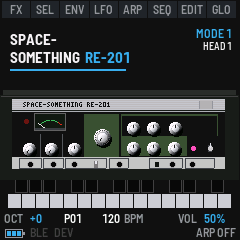
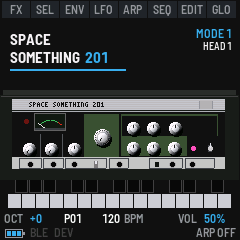
Instrument names: Piano Something 368X, Space Something 201; PIANO HOME and PIANO PANEL

Changed region(s): [[0.0875, 0.4083, 0.4667, 0.4667], [0.35, 0.2042, 0.5542, 0.2625], [0.2042, 0.1458, 0.2333, 0.175]]

diff --git a/app.c b/app.c
@@ -46,7 +46,7 @@ typedef struct {
                                           * (stored so: older records' spare 0, full) */
     uint8_t rvol_off;                    /* the RMI's own volume, as bvol_off (its faceplate's fader) */
     uint8_t spare4[1];
-    uint8_t rmi_tabs;                    /* the RMI's tone tablets down, a bit each, RT_* (ELECTRA PANEL: SEL the
+    uint8_t rmi_tabs;                    /* the RMI's tone tablets down, a bit each, RT_* (PIANO PANEL: SEL the
                                           * tablet, PRESET it on or off; older records: settings_defaults', PIANO) */
     uint8_t rmi_organ, rmi_accent;       /* its ORGAN MODE and ACCENTER tablets: 0 up, 1 down */
     uint8_t rmi_bass;                    /* its BASS slider: the bass boost, 0..127 (64, the middle: none) */
@@ -1800,7 +1800,7 @@ static struct {
     uint8_t se;                          /* the Space Echo's (HOME on the RMI's): HOME its page, the keys the RMI's still
                                           * (rmi stays set: an effect has no keys of its own) */
     uint32_t rkeys;                      /* the keys sounding the RMI (their release its too) */
-    uint8_t rmi_cur;                     /* ELECTRA PANEL's cursor: the tone tablet PRESET switches, RT_* (SEL moves it) */
+    uint8_t rmi_cur;                     /* PIANO PANEL's cursor: the tone tablet PRESET switches, RT_* (SEL moves it) */
     uint32_t dt_at[NDT];                 /* when each drum was last hit (dt_flash_take): its key lit a moment */
     uint8_t dt_sel;                      /* the drum last tapped: what VOLUME and TUNING (K3, K4) set */
     uint8_t dt_fn;                       /* the function lit in the 400's LED lists (DTF_*): SEQ and ARP step them */
@@ -2001,7 +2001,7 @@ static const char *const PAGE_NAME[NPAGES] = {"OSCILLATORS", "PULSE WIDTH", "TRI
                                               "GLOBAL DISPLAY", "GLOBAL DUMP", "RND SEED", "RND PATCH", "RND TRACKS",
                                               "GLOBAL DRUMS", "DRUM HOME", "CHANNEL 1", "CHANNEL 2", "CHANNEL 3",
                                               "CHANNEL 4", "CHANNEL 5", "CHANNEL 6", "DRUM MODS", "PATTERN", "SONG", "PATTERN INFO", "SONG INFO", "GLOBAL AUDIO", "GLOBAL CONTROLS",
-                                              "PATCH NAME", "ELECTRA HOME", "ELECTRA PANEL",
+                                              "PATCH NAME", "PIANO HOME", "PIANO PANEL",
                                               "ECHO HOME", "ECHO INPUT", "ECHO PANEL", "ECHO MODS",
                                               "GLOBAL PIANO"};
 #define RND_PAGE(g) ((g) >= PG_GRND && (g) <= PG_RTRK)   /* the RND pages */
@@ -2777,7 +2777,7 @@ static int knob_turn(uint32_t k, int32_t e)
 {
     if (ui.page == PG_NAME)
         return name_turn(k, e);
-    if (ui.page == PG_RSEL && k == EN_PRESET) {   /* ELECTRA PANEL's PRESET: the cursor's tone tablet, right down, left
+    if (ui.page == PG_RSEL && k == EN_PRESET) {   /* PIANO PANEL's PRESET: the cursor's tone tablet, right down, left
                                               * up (SEL moves the cursor) */
         const uint32_t c = ui.rmi_cur < NRT ? ui.rmi_cur : 0u;
         set.rmi_tabs = (uint8_t)(e > 0 ? set.rmi_tabs | 1u << c : set.rmi_tabs & ~(1u << c));
@@ -3797,7 +3797,7 @@ static const char *btn_hint(uint32_t k)      /* button k's, pressed on this page
         [PG_OSC] = "Oscillators", [PG_MIX] = "Pulse Width", [PG_FX] = "Sub + Mixer", [PG_AENV] = "Envelopes",
         [PG_MENV] = "Triggering", [PG_EMOD] = "Env Mods", [PG_LFO1] = "LFOs", [PG_LFO2] = "LFO Mods",
         [PG_TUNE] = "Filters", [PG_FMOD] = "Filter LFO 2", [PG_EFX] = "Effects", [PG_XMOD] = "FX Mods",
-        [PG_ARP] = "Arp", [PG_AMOD] = "Arp Mods", [PG_SEQ] = "Sequencer", [PG_GMIDI] = "MIDI", [PG_GCLK] = "Clock", [PG_GAUD] = "Audio", [PG_GCTL] = "Controls", [PG_NAME] = "Patch Name", [PG_RSEL] = "Electra Panel",
+        [PG_ARP] = "Arp", [PG_AMOD] = "Arp Mods", [PG_SEQ] = "Sequencer", [PG_GMIDI] = "MIDI", [PG_GCLK] = "Clock", [PG_GAUD] = "Audio", [PG_GCTL] = "Controls", [PG_NAME] = "Patch Name", [PG_RSEL] = "Piano Panel",
         [PG_GDISP] = "Display", [PG_GDUMP] = "Dump", [PG_GRND] = "RND Seed", [PG_RPAT] = "RND Patch",
         [PG_RTRK] = "RND Tracks", [PG_GDRUM] = "Drums", [PG_GRMI] = "Piano"};
     static char tap[48];                     /* "GLO tap: System, hold: RND Synth Companion" */
@@ -3821,12 +3821,12 @@ static const char *btn_hint(uint32_t k)      /* button k's, pressed on this page
         [DTF_BINS] = "Insert a step", [DTF_BDEL] = "Delete the step"};
     const int rec = seq_rec && ui.page == PG_SEQ;
     if (k == B_HOME && ui.page == mode_home())   /* (on it: the next mode, mode_switch) */
-        return ui.se ? "HOME tap: Bass Something 2" : ui.drum ? "HOME tap: Electra-Something 368X"
-               : ui.rmi ? "HOME tap: Space-Something RE-201" : "HOME tap: Drum Something 400";
+        return ui.se ? "HOME tap: Bass Something 2" : ui.drum ? "HOME tap: Piano Something 368X"
+               : ui.rmi ? "HOME tap: Space Something 201" : "HOME tap: Drum Something 400";
     if (ui.se && (SE_PAGE(ui.page) || ui.page < PG_HOME))   /* (the Space Echo's: its panels, se_button) */
         return k == B_SEL ? "Next panel" : k == B_HOME ? "Echo Home" : 0;
     if (ui.rmi && (RMI_PAGE(ui.page) || ui.page < PG_HOME))   /* (the RMI's: its panel and mods, rmi_button) */
-        return k == B_SEL ? (ui.page == PG_RSEL ? "Next toggle" : "Electra Panel") : k == B_HOME ? "Electra Home" : 0;
+        return k == B_SEL ? (ui.page == PG_RSEL ? "Next toggle" : "Piano Panel") : k == B_HOME ? "Piano Home" : 0;
     if (ui.drum && !RND_PAGE(ui.page)) {     /* (every button the drums', as dt_button: the bass's form) */
         const uint32_t f = ui.dt_fn;
         const char *to = 0, *more = 0;
@@ -4968,7 +4968,7 @@ static int zoom_step(uint32_t now)           /* a frame: 1 when the camera moved
 {
     const uint32_t dt = zoom.at ? now - zoom.at : 0u, last = ui.turned_at[ui.last_enc];
     const int fn = zoom.fn_at && zoom.fn_ok && now - zoom.fn_at < DFN_ZOOM_MS;   /* (a function just picked: to read it) */
-    const int aim = !set.zoom_off && zoom.pg == ui.page && ui.page != PG_RSEL   /* (ELECTRA PANEL slides instead) */
+    const int aim = !set.zoom_off && zoom.pg == ui.page && ui.page != PG_RSEL   /* (PIANO PANEL slides instead) */
                     && (fn || (zoom.k == ui.last_enc + 1u && last && now - last < ZOOM_HOLD_MS));
     const int16_t z = zoom.z, x = zoom.x, y = zoom.y;
     zoom.at = now;
@@ -5514,7 +5514,7 @@ static uint32_t rmi_down(void)               /* the tablets down, a bit each (RT
 {
     return (set.rmi_tabs & 31u) | (set.rmi_organ ? 32u : 0u) | (set.rmi_accent ? 64u : 0u);
 }
-/* ELECTRA PANEL: the strip up close, as its photo has it (PANEL_CENTER, tools/rmi_local's measures), 0.4 a pixel
+/* PIANO PANEL: the strip up close, as its photo has it (PANEL_CENTER, tools/rmi_local's measures), 0.4 a pixel
  * from x 380, y 419: too wide for the screen, so it slides (rp_vx) to what's being set, as the drums' channels do:
  * PRESET the voice's tablets, K1 the BASS slider, K2 ORGAN MODE, K3 ACCENTER, K4 the VOL slider */
 #define RPX(x) ((int32_t)(((x) - 380) * 2 / 5) - rp_x)
@@ -5591,8 +5591,8 @@ static void rsel_draw(void)
     tag((RPX(RT_X[5][0]) + RPX(RT_X[5][1])) / 2, RPY(660), EN_K2);
     tag((RPX(RT_X[6][0]) + RPX(RT_X[6][1])) / 2, RPY(660), EN_K3);
 }
-/* RMI HOME (Electra-Something 368X): as the other two HOMEs, its name, what plays (no display: the 368X has none); the strip
- * (ELECTRA PANEL's) slid down to the keys (the footer's, its keyboard); between them its notes as they ring, each a bar at
+/* RMI HOME (Piano Something 368X): as the other two HOMEs, its name, what plays (no display: the 368X has none); the strip
+ * (PIANO PANEL's) slid down to the keys (the footer's, its keyboard); between them its notes as they ring, each a bar at
  * its key's place as tall as its level now, the most it reached falling slowly over it (rbar_paint) */
 /* the front panel, as FRONT2 has it (from x 600 at 0.186 a pixel; its foot, y 594, on the keys) */
 #define RFX(x) ((int32_t)(((x) - 600) * 186 / 1000))
@@ -5655,7 +5655,7 @@ static void rhome_draw(void)
     char vc[32];
     rmi_voice_text(vc);
     cv_rect(0, 0, 240, TALL_H, P_BG);
-    cv_text(10, 12, &FONT_B, "ELECTRA-", P_SILK);   /* the name; the voice and its tablets (no display: the 368X has
+    cv_text(10, 12, &FONT_B, "PIANO", P_SILK);   /* the name; the voice and its tablets (no display: the 368X has
                                               * none) */
     cv_text(cv_text(10, 30, &FONT_B, "SOMETHING", P_SILK) + 5, 30, &FONT_B, "368X", P_BAR);
     cv_rect(10, 49, 116, 2, P_BAR);
@@ -5811,10 +5811,10 @@ static void se_front(int whole)
     for (y = SPY(190); y < SPY(220); y++)    /* the brushed aluminium strip, the name, the badge */
         cv_rect(SPX(122), y, SPX(678) - SPX(122), 1, grey(y & 1 ? 198 : 186));
     if (big) {
-        y = cv_text(SPX(150), SPY(197), &FONT_B, "SPACE-SOMETHING", RGB(18, 18, 18));
-        cv_text(y + 6, SPY(199), &FONT_XS, "RE-201", RGB(18, 18, 18));
+        y = cv_text(SPX(150), SPY(197), &FONT_B, "SPACE SOMETHING", RGB(18, 18, 18));
+        cv_text(y + 6, SPY(199), &FONT_XS, "201", RGB(18, 18, 18));
     } else
-        se_lbl(SPX(150) + 43, SPY(203) - 2, "SPACE-SOMETHING RE-201", RGB(18, 18, 18));
+        se_lbl(SPX(150) + 43, SPY(203) - 2, "SPACE SOMETHING 201", RGB(18, 18, 18));
     cv_rect(SPX(610), SPY(195), SPX(646) - SPX(610), SPY(218) - SPY(195), grey(150));
     cv_rect(SPX(612), SPY(197), SPX(644) - SPX(612), SPY(216) - SPY(197), grey(176));
     cv_rect(SPX(122), SPY(221), SPX(678) - SPX(122), SPY(224) - SPY(221) > 0 ? SPY(224) - SPY(221) : 1, grey(172));
@@ -5889,8 +5889,8 @@ static void shome_draw(void)
     const uint32_t m = set.se_mode < 12u ? set.se_mode : 0u;
     char t[24];
     cv_rect(0, 0, 240, TALL_H, P_BG);
-    cv_text(10, 12, &FONT_B, "SPACE-", P_SILK);
-    cv_text(cv_text(10, 30, &FONT_B, "SOMETHING", P_SILK) + 5, 30, &FONT_B, "RE-201", P_BAR);
+    cv_text(10, 12, &FONT_B, "SPACE", P_SILK);
+    cv_text(cv_text(10, 30, &FONT_B, "SOMETHING", P_SILK) + 5, 30, &FONT_B, "201", P_BAR);
     cv_rect(10, 49, 116, 2, P_BAR);
     t[0] = 0;
     text_cat(t, "MODE ");
@@ -8693,7 +8693,7 @@ void app_frame(void)
         panel_draw();
     }
     last_live = i;
-    if (ui.page == PG_RSEL && rp_moving)      /* (ELECTRA PANEL sliding: its next frame) */
+    if (ui.page == PG_RSEL && rp_moving)      /* (PIANO PANEL sliding: its next frame) */
         ui.redraw = 1;
     if (ui.page == PG_RHOME && !zoom.z && !rfx_at && now - scope_at >= 33u && (rbar_live() || scope_was)) {
         scope_at = now;                      /* (RMI HOME's bars: as the scope, while they move, once more after) */

diff --git a/docs/MANUAL.md b/docs/MANUAL.md
@@ -10,7 +10,7 @@ goes out over USB and Bluetooth.
 It's also a companion for Cyma Forma's RND Synth (firmware 1.4): it keeps 32 of its patches as seeds with their locks
 (type, key, tracks), sends them back, and mixes its four tracks (see [RND Synth](#s9)).
 
-A second instrument plays beside the synth: [Drum Something 400](#s6), 13 drums with their own sequencer and songs. A third, [Electra-Something 368X](#rmi), is an electric piano, and [Space-Something RE-201](#echo) is a tape echo and spring reverb that all three can send into.
+A second instrument plays beside the synth: [Drum Something 400](#s6), 13 drums with their own sequencer and songs. A third, [Piano Something 368X](#rmi), is an electric piano, and [Space Something 201](#echo) is a tape echo and spring reverb that all three can send into.
 
 ![The Bass Something 2 screen with a note playing: the section tabs, the HOME page (the name, the red P01 display, the scope drawing the note's wave, the whole Bass Station II panel), the keys with the held one in cyan, then OCT +0, P01, 120 BPM, VOL 50% and ARP OFF](img/screen-home.png "Bass Something 2 playing")
 ![Drum Something 400's HOME page: the panel, with two red displays above the keypad and the drums' buttons along the bottom](img/screen-drum-home.png "Drum Something 400")
@@ -93,7 +93,7 @@ GLOBAL CONTROLS' KNOBS sets how much they speed up, from FINE to COARSE.
 
 | Button | Page | Again |
 | --- | --- | --- |
-| HOME | HOME: the whole Bass Station II panel, as the sound is set (the page after the splash). On HOME, a tap goes round the instruments and Space Something, the camera panning down to the next one's panel: Bass Something 2, Drum Something 400, Electra-Something 368X, Space-Something RE-201, and back. From any other page, a hold switches at once | |
+| HOME | HOME: the whole Bass Station II panel, as the sound is set (the page after the splash). On HOME, a tap goes round the instruments and Space Something, the camera panning down to the next one's panel: Bass Something 2, Drum Something 400, Piano Something 368X, Space Something 201, and back. From any other page, a hold switches at once | |
 | SEL | MASTER: the patch, picked, saved and sent | |
 | ENV | ENVELOPES: Env Select (PRESET) and the four faders | TRIGGERING; then the group's mods (velocity, retriggering, fixed sustain) |
 | LFO | PORTA and LFOS: the glide, both LFOs' waves and knobs, the Delay/Speed switch | the group's mods (keysync, Speed/Sync, slew) |
@@ -491,7 +491,7 @@ contains no samples of the original.
 
 ![Drum Something 400's HOME page: the panel, with two red displays above the keypad and the drums' buttons along the bottom](img/screen-drum-home.png "HOME, tapped on HOME")
 
-Tap HOME on HOME to go round the instruments: Bass Something 2, Drum Something 400, Electra-Something 368X (see [Electra-Something 368X](#rmi)), Space-Something RE-201 (see [Space-Something RE-201](#echo)), and back. From any other page, hold it for a second. In Drum Something 400, every button
+Tap HOME on HOME to go round the instruments: Bass Something 2, Drum Something 400, Piano Something 368X (see [Piano Something 368X](#rmi)), Space Something 201 (see [Space Something 201](#echo)), and back. From any other page, hold it for a second. In Drum Something 400, every button
 does a drum job, listed below, and the keys play the drums.
 
 ### Its keys and channels
@@ -637,15 +637,15 @@ CCs 33 to 45 set each drum's tuning and 46 to 58 its volume, in the order Bass, 
 ---
 
 <a id="rmi"></a>
-### Electra-Something 368X
+### Piano Something 368X
 
-The third instrument, Electra-Something 368X, is after the RMI Electra-piano 368X, the 1970s electronic piano with
+The third instrument, Piano Something 368X, is after the RMI Electra-piano 368X, the 1970s electronic piano with
 its seven stop toggles: a piano, a harpsichord and a lute, each from its own tone generator per key, polyphonic (eight
 notes at once here). Tap HOME on Drum Something 400's HOME to reach it. Its HOME has its name, the tone toggles down (with ORGAN MODE and
 ACCENTER when down) and its stop strip down on the keys (the FM-1's keys are its keyboard); between them its notes as they
 ring, each a bar over its key's place as tall as its level, a mark falling slowly from the most it reached.
 
-**ELECTRA PANEL** (SEL; SEL again there moves along the toggles) is the stop strip up close, BASS slider at the left, the toggles, VOL at the right:
+**PIANO PANEL** (SEL; SEL again there moves along the toggles) is the stop strip up close, BASS slider at the left, the toggles, VOL at the right:
 
 | Control | What it does |
 | --- | --- |
@@ -679,15 +679,15 @@ Drum Something 400 uses. LUTE is the harpsichord's tone through the 368X's lute 
 its level set by ear, as is how much softer a PP toggle is: the recordings can't measure those.
 
 <a id="echo"></a>
-### Space-Something RE-201
+### Space Something 201
 
-Space-Something RE-201 is a tape echo and spring reverb after the Roland RE-201 Space Echo, the 1974 tape loop with
+Space Something 201 is a tape echo and spring reverb after the Roland RE-201 Space Echo, the 1974 tape loop with
 three playback heads and a three-spring reverb tank. It isn't an instrument: the synth, the drums and the electric piano
-each send into it, and it plays back on the master. Tap HOME on Electra-Something 368X's HOME to reach it; the keys go
+each send into it, and it plays back on the master. Tap HOME on Piano Something 368X's HOME to reach it; the keys go
 on playing the electric piano there. Its HOME has its name, the mode (which heads, and the spring) and the whole front
 panel, its knobs as they're set, its VU meter and PEAK lamp live.
 
-![Space-Something RE-201's HOME page: its name and mode above the whole RE-201 front panel, the keys under it](img/screen-echo-home.png "Space-Something RE-201")
+![Space Something 201's HOME page: its name and mode above the whole RE-201 front panel, the keys under it](img/screen-echo-home.png "Space Something 201")
 
 How it works, as the RE-201 does:
 
@@ -1038,7 +1038,7 @@ firmware's version (VERSION v0.7). The on/off settings are slide switches.
 On every GLO page, the right of the page's own bar shows the audio's load (for a moment after a change, what changed
 instead), for example **CPU0 34/41**. The first number is the
 load now, as a percentage of the time the FM-1 has to make each block of sound. The second is the highest it reached
-in the last five seconds. **CPU1** under it is the FM-1's second core, which makes the Electra-Something's sound
+in the last five seconds. **CPU1** under it is the FM-1's second core, which makes the Piano Something's sound
 beside the first (**CPU1 OFF**: one core is doing it all). If the sound ever misses its deadline (a dropout, heard as
 a click), a count follows in cyan, for example **CPU0 97/100 !2**, and stays until the FM-1 is switched off. A click without the count going up came
 from something else. A write to memory (SAVE, a patch change, and the sequence and GLO settings keeping themselves) holds
@@ -1134,7 +1134,7 @@ Station II uses two CCs for one knob (cutoff 16 and 48, for example), the FM-1 r
 | 118 | ARP | MODE, K3 (6 PLAY, 7 REC, as the Bass Station II sends them) |
 | 119 | ARP | RHYTHM, K2 |
 
-**Space-Something RE-201:** its knobs on the same channel, on numbers the Bass Station II doesn't use. They set its
+**Space Something 201:** its knobs on the same channel, on numbers the Bass Station II doesn't use. They set its
 settings, not the patch, so SAVE doesn't light. MODE takes 0 to 11 (11 is REVERB ONLY); TEMPO SYNC is on above 0.
 
 | CC | Knob | CC | Knob |
